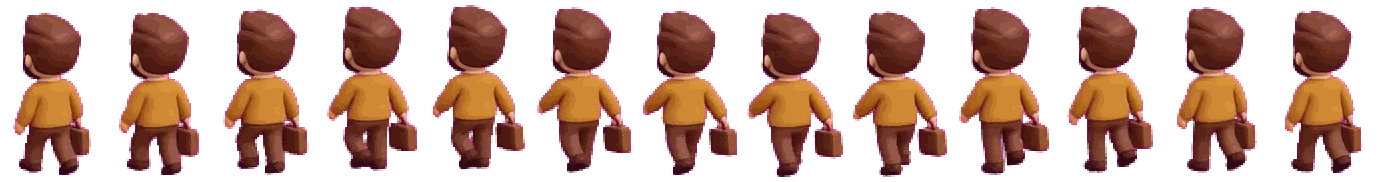
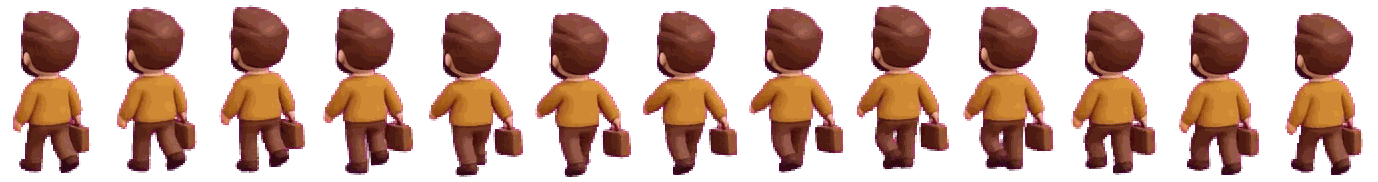
Люди ззаду: анімація ходьби у правильному напрямку
- у відео вигляд ззаду крокував у зворотному порядку; у make_walk кадри таких
  фігур розвернуто (смужки й GIF)
- docs/ART_PROMPTS.md: листи 16-17 і фон для кухні

diff --git a/tools/make_walk.py b/tools/make_walk.py
@@ -97,6 +97,9 @@ for i, name in enumerate(NAMES):
                 best = (d, t0)
         t0 = best[1]
         seq = region[t0:t0 + LOOP:STEP]
+        if side == 'back':
+            # in the generated video the back views step in the opposite direction: reverse the loop
+            seq = seq[::-1]
         n = len(seq)
         # one crop box for all frames
         al = np.max([f[..., 3] for f in seq], axis=0) > 40

diff --git a/docs/ART_PROMPTS.md b/docs/ART_PROMPTS.md
@@ -156,6 +156,45 @@ A large flat top-down texture of [МАТЕРІАЛ], filling the entire square c
 
 Матеріали: `fresh light-green grass with tiny soft tufts and a few small white and yellow flowers` · `warm yellow beach sand with soft ripples and a few tiny shells` · `turquoise water with soft light-blue wavy lines` · `dark gray asphalt with fine soft grain`.
 
+## КУХНЯ. Лист 16: предмети кухні (5×5, FLAT)
+
+Кухня в грі показується спереду (як сцена на екрані), а не ізометрично, тому заголовок FLAT. Рівні запасів (скільки лимонів, води, цукру) гра вибирає з кількох станів.
+
+СІТКА 25 / 5×5 / 78% + FLAT +
+
+```
+Each item is a single kitchen object seen straight from the FRONT, slightly glossy clay material.
+
+Row 1 (lemons): 1) an empty wooden crate, 2) a wooden crate with only three lemons at the bottom, 3) a wooden crate half full of lemons, 4) a wooden crate full of fresh lemons heaping above the rim, 5) a single whole fresh lemon with a leaf.
+Row 2 (water and sugar): 6) one plastic water bottle, 1.5 liters, blue cap, 7) two plastic water bottles side by side, 8) three plastic water bottles in a row, 9) an empty open paper sugar sack, 10) a full open paper sugar sack with white sugar crystals heaping at the top, no text.
+Row 3 (sugar and cups): 11) a half-full open paper sugar sack, 12) a stack of two white paper cups, 13) a stack of three white paper cups, 14) a tall stack of five white paper cups, 15) a stack of four yellow paper cups each with a small lemon drawing.
+Row 4 (tools): 16) a wide white bowl with a half lemon pressed on a reamer (hand squeezing), 17) a lever citrus juicer machine, orange and steel, with a big lever, 18) a wooden cutting board with a knife, 19) a pink hand mixer with two beaters, 20) a modern stainless-steel stand mixer with a mixing bowl.
+Row 5: 21) the pink hand mixer BROKEN: cracked casing, a loose cable, a small wrench lying next to it, 22) a blue cooler bag with a zipper and a handle, 23) a red toolbox with a handle, closed, 24) a big EMPTY pitcher with a handle, opaque light-blue, wide open top, 25) the same big pitcher FILLED to the top with yellow lemonade and a lemon slice on the rim, opaque.
+```
+
+Імена: `kt_crate_0, kt_crate_1, kt_crate_2, kt_crate_3, kt_lemon, kt_water_1, kt_water_2, kt_water_3, kt_sugar_0, kt_sugar_3, kt_sugar_2, kt_cups_2, kt_cups_3, kt_cups_5, kt_cups_branded, kt_juicer_hand, kt_juicer_lever, kt_board, kt_mixer_basic, kt_mixer_pro, kt_mixer_broken, kt_cooler, kt_toolkit, kt_pitcher_empty, kt_pitcher_full`
+
+## КУХНЯ. Лист 17: ефекти й оздоблення кухні (5×4, FLAT)
+
+СІТКА 20 / 5×4 / 78% + FLAT +
+
+```
+Row 1 (effects): 1) a yellow lemon-juice splash burst, 2) three yellow juice drops, 3) a small pile of white sugar crystals with sparkles, 4) a blue water splash with drops, 5) a yellow swirl of mixing lines in a circle.
+Row 2: 6) a lemon half cut open, 7) a lemon slice wheel, 8) a curl of yellow lemon peel, 9) a golden sparkle star (perfect mix), 10) a wrench crossed with a screwdriver (broken marker).
+Row 3 (furniture): 11) a long wooden work table seen from the front, empty top, four legs, one drawer, 12) a wooden wall shelf with two boards and brackets, empty, 13) a window with white frame and a small curtain, opaque sky-blue pane, 14) a round wall clock, blank face with ticks only, 15) a small wooden stool.
+Row 4 (decor): 16) a pot with fresh green mint, 17) a kitchen towel hanging on a hook, 18) a yellow apron hanging on a peg, 19) a blank black chalkboard in a wooden frame, 20) a fruit bowl with lemons and an apple.
+```
+
+Імена: `kt_fx_splash, kt_fx_drops, kt_fx_sugar, kt_fx_water, kt_fx_swirl, kt_lemon_half, kt_lemon_slice, kt_peel, kt_sparkle, kt_broken, kt_table, kt_shelf, kt_window, kt_clock, kt_stool, kt_mint, kt_towel, kt_apron, kt_chalkboard, kt_fruit_bowl`
+
+## КУХНЯ. Фон (одна велика картинка, без предметів)
+
+```
+A single wide 3D render of an empty cozy home kitchen back wall seen straight from the front, canvas 2048x1536 (4:3), nothing on the wall except the room itself: mint-green square glossy wall tiles in the upper part, a wooden floor strip at the bottom, a wide white-framed window on the left with soft daylight (opaque pale sky-blue pane), a small empty wooden wall shelf on the right. NO furniture, NO table, NO food, NO tools, NO characters, NO text. Cute stylized soft clay / toy-like look, bright cheerful saturated colors, soft light from the top-left, FRONT VIEW, no perspective distortion, very high detail. The lower third must be a calm empty floor and wall area so objects can be placed on top.
+```
+
+Ім'я: `kt_bg`. Після генерації я заміню ними нинішню намальовану кодом кухню: полиця запасів, стіл, інструменти, глечик (повний глечик обрізатиметься за рівнем), бризки.
+
 ## Анімації: як замовляти ще
 
 Для кожного листа з людьми/тваринами, пари «спереду + ззаду», можна замовити відео ходьби тим самим способом, що й для пішоходів (сітка з клітинок, фігури крокують на місці, лист на магентовому фоні, цикл мінімум 1 с). Далі `tools/walk_analyze.py` та `tools/make_walk.py`.
